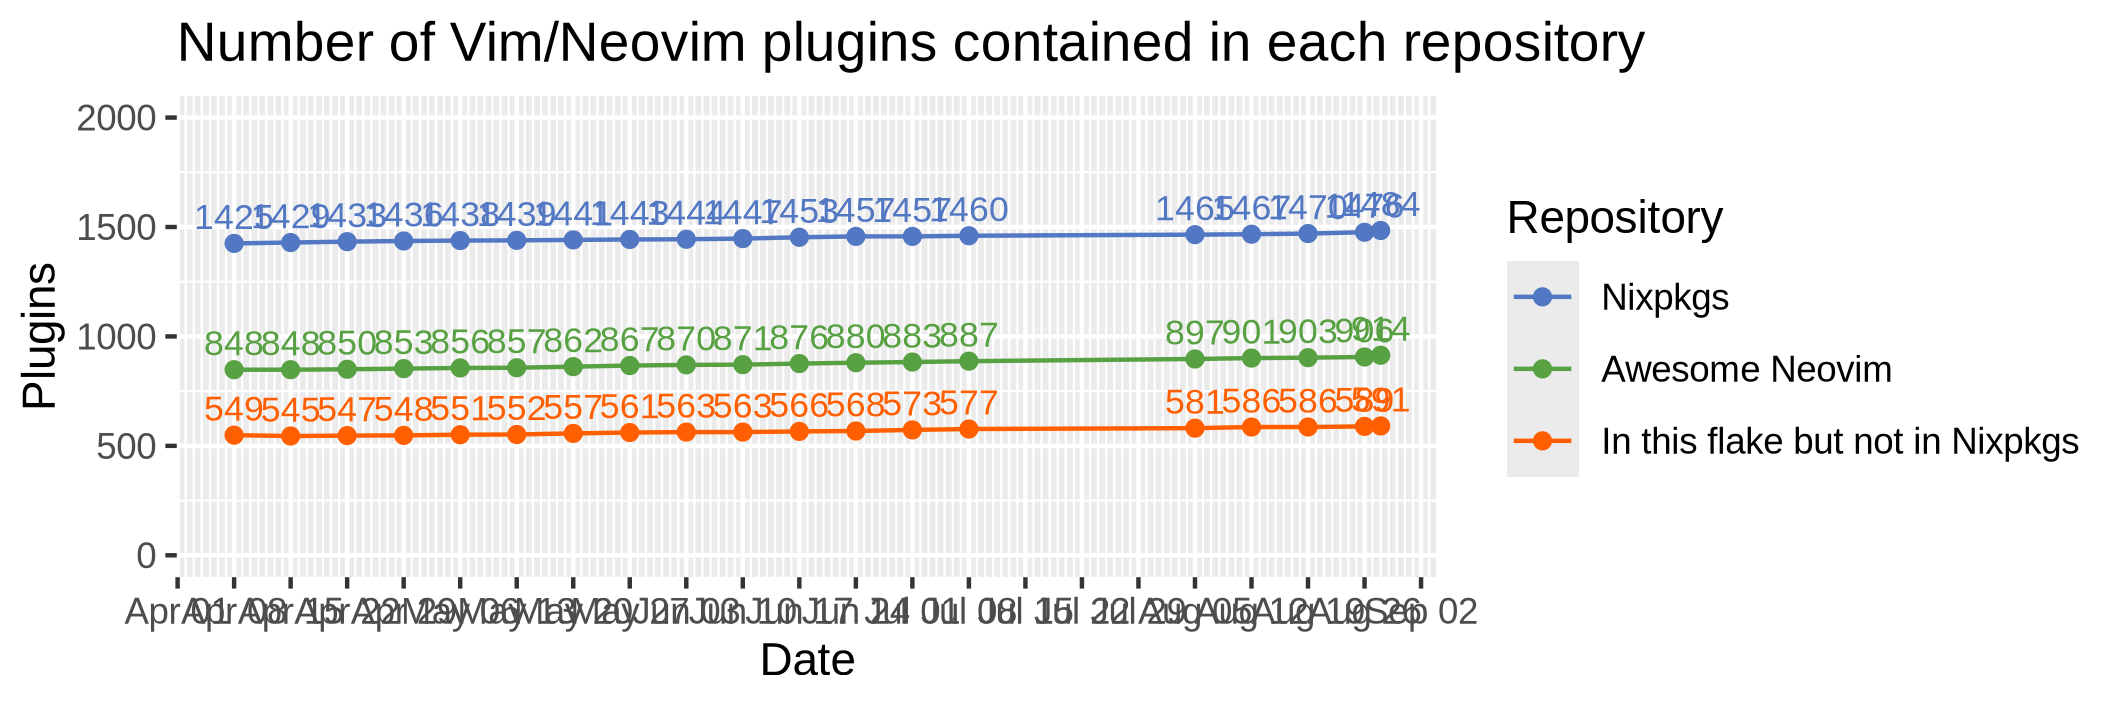
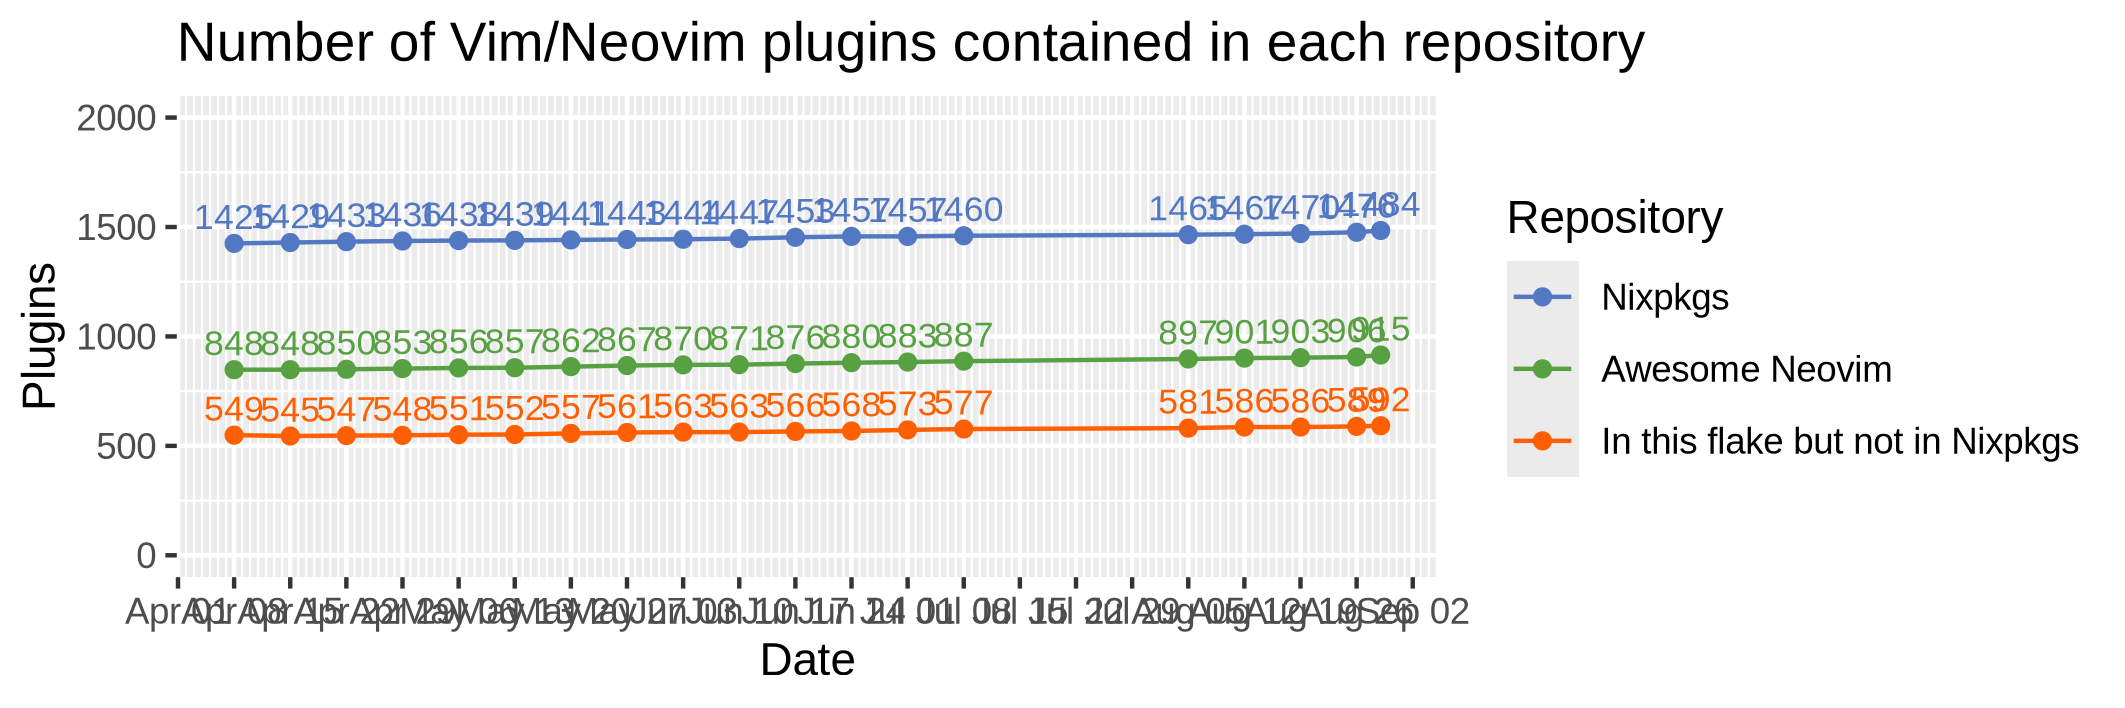
auto: update vim plugins

diff --git a/README.md b/README.md
@@ -8,7 +8,7 @@ Nix flake of Awesome Neovim plugins.
 
 [b1]: https://img.shields.io/github/actions/workflow/status/m15a/flake-awesome-neovim-plugins/check.yml?style=flat-square&logo=github&label=CI
 [b2]: https://github.com/m15a/flake-awesome-neovim-plugins/actions/workflows/check.yml
-[b3]: https://img.shields.io/badge/Awesome_Neovim_plugins-914-57A143?style=flat-square
+[b3]: https://img.shields.io/badge/Awesome_Neovim_plugins-915-57A143?style=flat-square
 [b4]: https://img.shields.io/endpoint?url=https://flakehub.com/f/m15a/flake-awesome-neovim-plugins/badge&style=flat-square
 [b5]: https://flakehub.com/flake/m15a/flake-awesome-neovim-plugins
 
